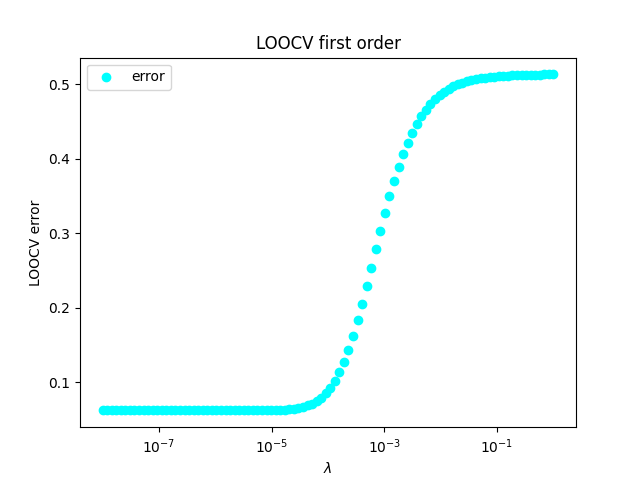
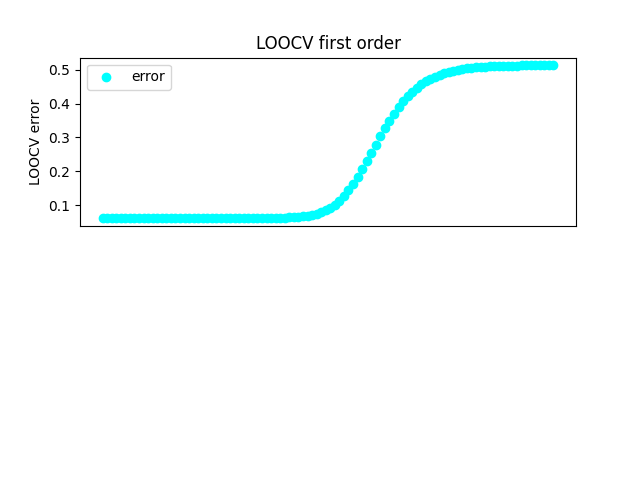
neat feats added

diff --git a/assignments/Assignment2/src/Exercise2/LOO-CV.py b/assignments/Assignment2/src/Exercise2/LOO-CV.py
@@ -21,7 +21,7 @@ def GetBestLamb(x, t, k):
             result = lam[i]
             #print("lamInside = %.10f"% lam[i])
     return result
-"""
+
 print("lam = %a" % GetBestLamb(InputVar,FPRunTimes,1))
 regularised_model.fit(InputVar, FPRunTimes, GetBestLamb(InputVar,FPRunTimes,1), 1)
 print("w of best lam: %a"% regularised_model.w)    
@@ -31,28 +31,30 @@ print("w of lam 0: %a"% regularised_model.w)
 
 LOOCVList = np.array([regularised_model.LOOCV(InputVar, FPRunTimes, i, 1) for i in lam])
 
-plt.subplot()
+plt.subplot(211)
 plt.title("LOOCV first order")
 plt.scatter(lam,LOOCVList , color='cyan', label="error")
 plt.ylabel('LOOCV error')
 plt.xlabel("$\lambda$")
 plt.legend(loc=2)
+ax = plt.gca()
+ax.xaxis.set_visible(False)
 plt.xscale("log")
-plt.savefig("LOOCVofFirstOrder.png")
-"""
-#b
+#plt.savefig("LOOCVofFirstOrder.png")
 
-LOOCVList = np.array([regularised_model.LOOCV(InputVar, FPRunTimes, i, 4) for i in lam])
+#b
+fourth_model = linreg.LinearRegression()
+LOOCVList2 = np.array([fourth_model.LOOCV(InputVar, FPRunTimes, i, 4) for i in lam])
 
 print("lam = %a" % GetBestLamb(InputVar,FPRunTimes,4))
-regularised_model.fit(InputVar, FPRunTimes, GetBestLamb(InputVar,FPRunTimes,4), 4)
-print("w of best lam: %a"% regularised_model.w)    
-regularised_model.fit(InputVar, FPRunTimes, lam[0], 4)
-print("w of lam 0: %a"% regularised_model.w)  
+fourth_model.fit(InputVar, FPRunTimes, GetBestLamb(InputVar,FPRunTimes,4), 4)
+print("w of best lam: %a"% fourth_model.w)    
+fourth_model.fit(InputVar, FPRunTimes, lam[0], 4)
+print("w of lam 0: %a"% fourth_model.w)  
 
-plt.subplot()
+plt.subplot(212)
 plt.title("LOOCV fourth order")
-plt.scatter(lam,LOOCVList , color='cyan', label="error")
+plt.scatter(lam,LOOCVList2 , color='cyan', label="error")
 plt.ylabel('LOOCV error')
 plt.xlabel("$\lambda$")
 plt.legend(loc=2)

diff --git a/assignments/Assignment1/A1_files/A1_files/housing_2.py b/assignments/Assignment1/A1_files/A1_files/housing_2.py
@@ -40,7 +40,7 @@ print("RMSE of all: %a"% rmse(t_test, model_all.predict(X_test)))
 
 print("RMSE of single: %a"% rmse(t_test, model_single.predict(X_test[:,0])))
 
-plt.subplot()
+plt.subplot(212)
 plt.title("2D scatter plot(\"true house prices\" vs. \"estimates\") - ALL")
 plt.plot([10,20,30,40,50],[10,20,30,40,50])
 plt.scatter(model_all.predict(X_test), t_test, color='cyan', label="All")

diff --git a/assignments/Assignment2/src/Exercise1/weigh.py b/assignments/Assignment2/src/Exercise1/weigh.py
@@ -15,8 +15,6 @@ model_all.fit(X_train, t_train)
 for i in range(len(model_all.w)): 
     print("All model weight w%a: %a"% (i, model_all.w[i][0]))
 
-#for-loop to make more readable output, simply type print(model_all.w) if the 
-#look of the output doesn't matter
 def rmse(t, tp):
     error = t - tp
     square = error ** 2
